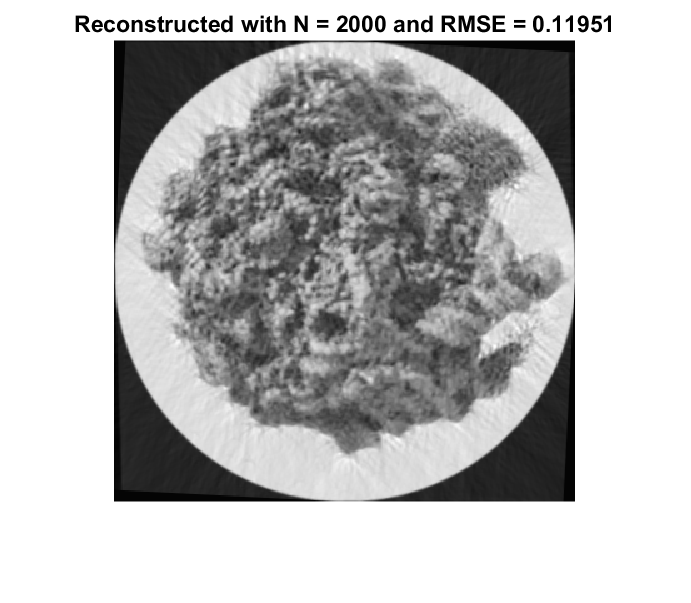
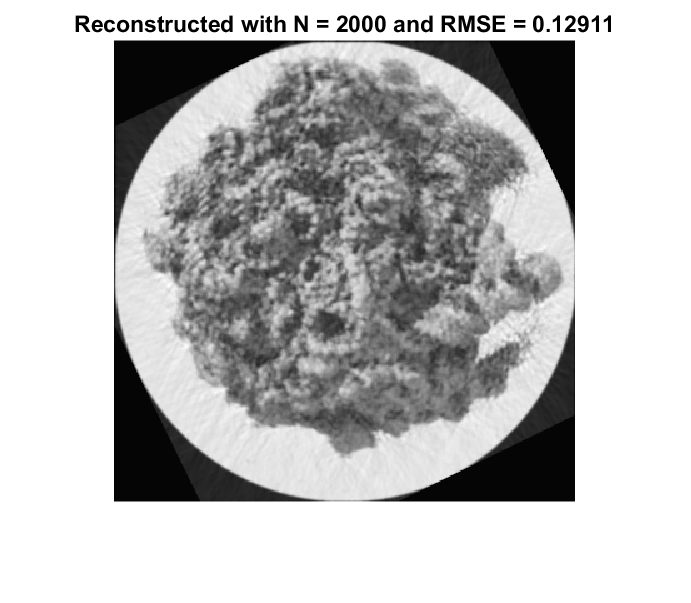
Q6 updated

diff --git a/HW3/q6/q6_radon.m b/HW3/q6/q6_radon.m
@@ -1,5 +1,6 @@
 image = imread('cryoem.png');
-NN = [50 100 500 1000 2000 5000 10000];
+%NN = [50 100 500 1000 2000 5000 10000];
+NN = [5000];
 for N = NN
     random_angles = rand(N, 1) * 360;
     projections = radon(image, random_angles);
@@ -31,19 +32,31 @@ for N = NN
     reconstructed_image = iradon(projections, 180/N , 'linear', 'Ram-Lak', 1, size(image, 1));
     RMSE = 1000000;
     rotation_angle = 0;
+    flipped = 0;
     for angle = 0:1:359
         reconstructed_image_rotated = imrotate(reconstructed_image, angle, 'bilinear', 'crop');
         rmse = sqrt(mean((double(image(:)) - double(reconstructed_image_rotated(:))).^2));
         if(rmse < RMSE)
             RMSE = rmse;
             rotation_angle = angle;
+            flipped = 0;
+        end
+        reconstructed_image_rotated = flip(reconstructed_image_rotated);
+        rmse = sqrt(mean((double(image(:)) - double(reconstructed_image_rotated(:))).^2));
+        if(rmse < RMSE)
+            RMSE = rmse;
+            rotation_angle = angle;
+            flipped = 1;
         end
     end
-    RMSE = RMSE / sqrt(mean(double(image(:)).^2));
     reconstructed_image = imrotate(reconstructed_image, rotation_angle, 'bilinear', 'crop');
+    if flipped == 1
+        reconstructed_image = flip(reconstructed_image);
+    end
+    RMSE = sqrt(mean((double(image(:)) - double(reconstructed_image(:))).^2));
+    RMSE = RMSE / sqrt(mean(double(image(:)).^2));
     figure;
     imshow(reconstructed_image, []);
     title(['Reconstructed with N = ' num2str(N) ' and RMSE = ' num2str(RMSE)]);
-    %save the image as filename N.png where N is the number of projections
     saveas(gcf, num2str(N), 'png');
 end
